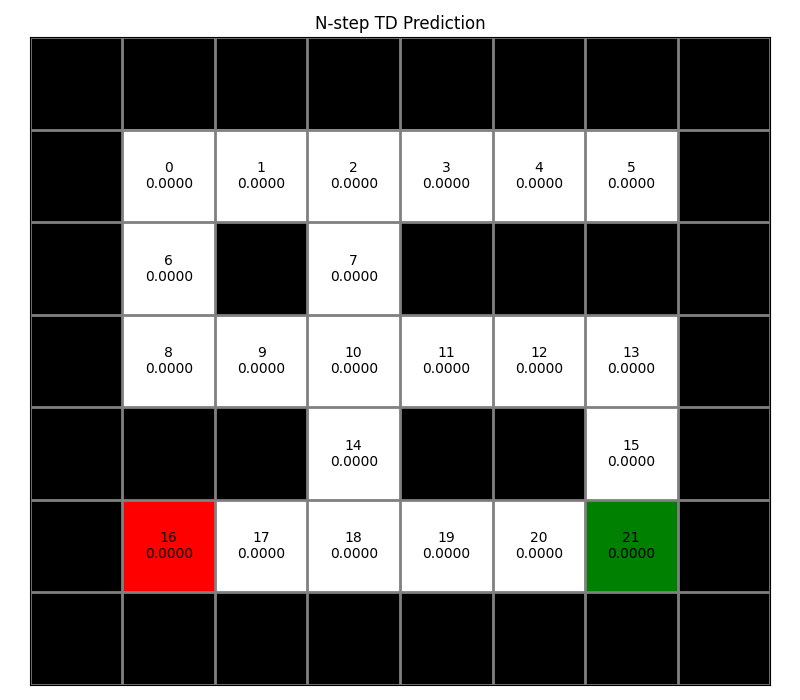
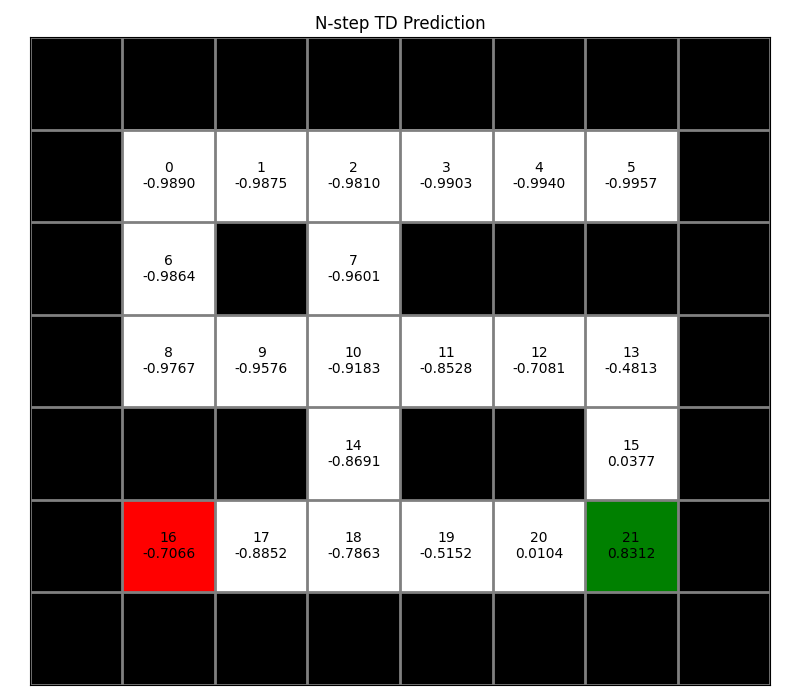
2-1 t3 done!!!

diff --git a/hw2-1/DP_solver.py b/hw2-1/DP_solver.py
@@ -110,6 +110,33 @@ class NstepTDPrediction(DynamicProgramming):
         """Run the algorithm until self.grid_world.check() == False"""
         # TODO: Update self.values with N-step TD Algorithm
         current_state = self.grid_world.reset()
+        T = 10**8
+        t = 0
+        episode_states = [current_state]
+        episode_rewards = [0]
         while self.grid_world.check():
             next_state, reward, done = self.grid_world.step()
-            continue
+            # print(current_state, next_state, reward, done)
+            if t < T:
+                episode_states.append(next_state)
+                episode_rewards.append(reward)
+                if done:
+                    T = t+1
+                    episode_states[-1] = 666
+            tau = t - self.n + 1
+            if tau >= 0:
+                G = np.sum([(self.discount_factor**(i - tau - 1))*episode_rewards[i]
+                           for i in range(tau+1, np.min([tau+self.n, T])+1)])
+                if tau+self.n < T:
+                    G = G+(self.discount_factor**self.n) * \
+                        self.values[episode_states[tau+self.n]]
+                self.values[episode_states[tau]] = self.values[episode_states[tau]] + \
+                    self.lr*(G - self.values[episode_states[tau]])
+            current_state = next_state
+            if tau == T-1:
+                T = 10**8
+                t = 0
+                episode_states = [current_state]
+                episode_rewards = [0]
+            else:
+                t += 1
